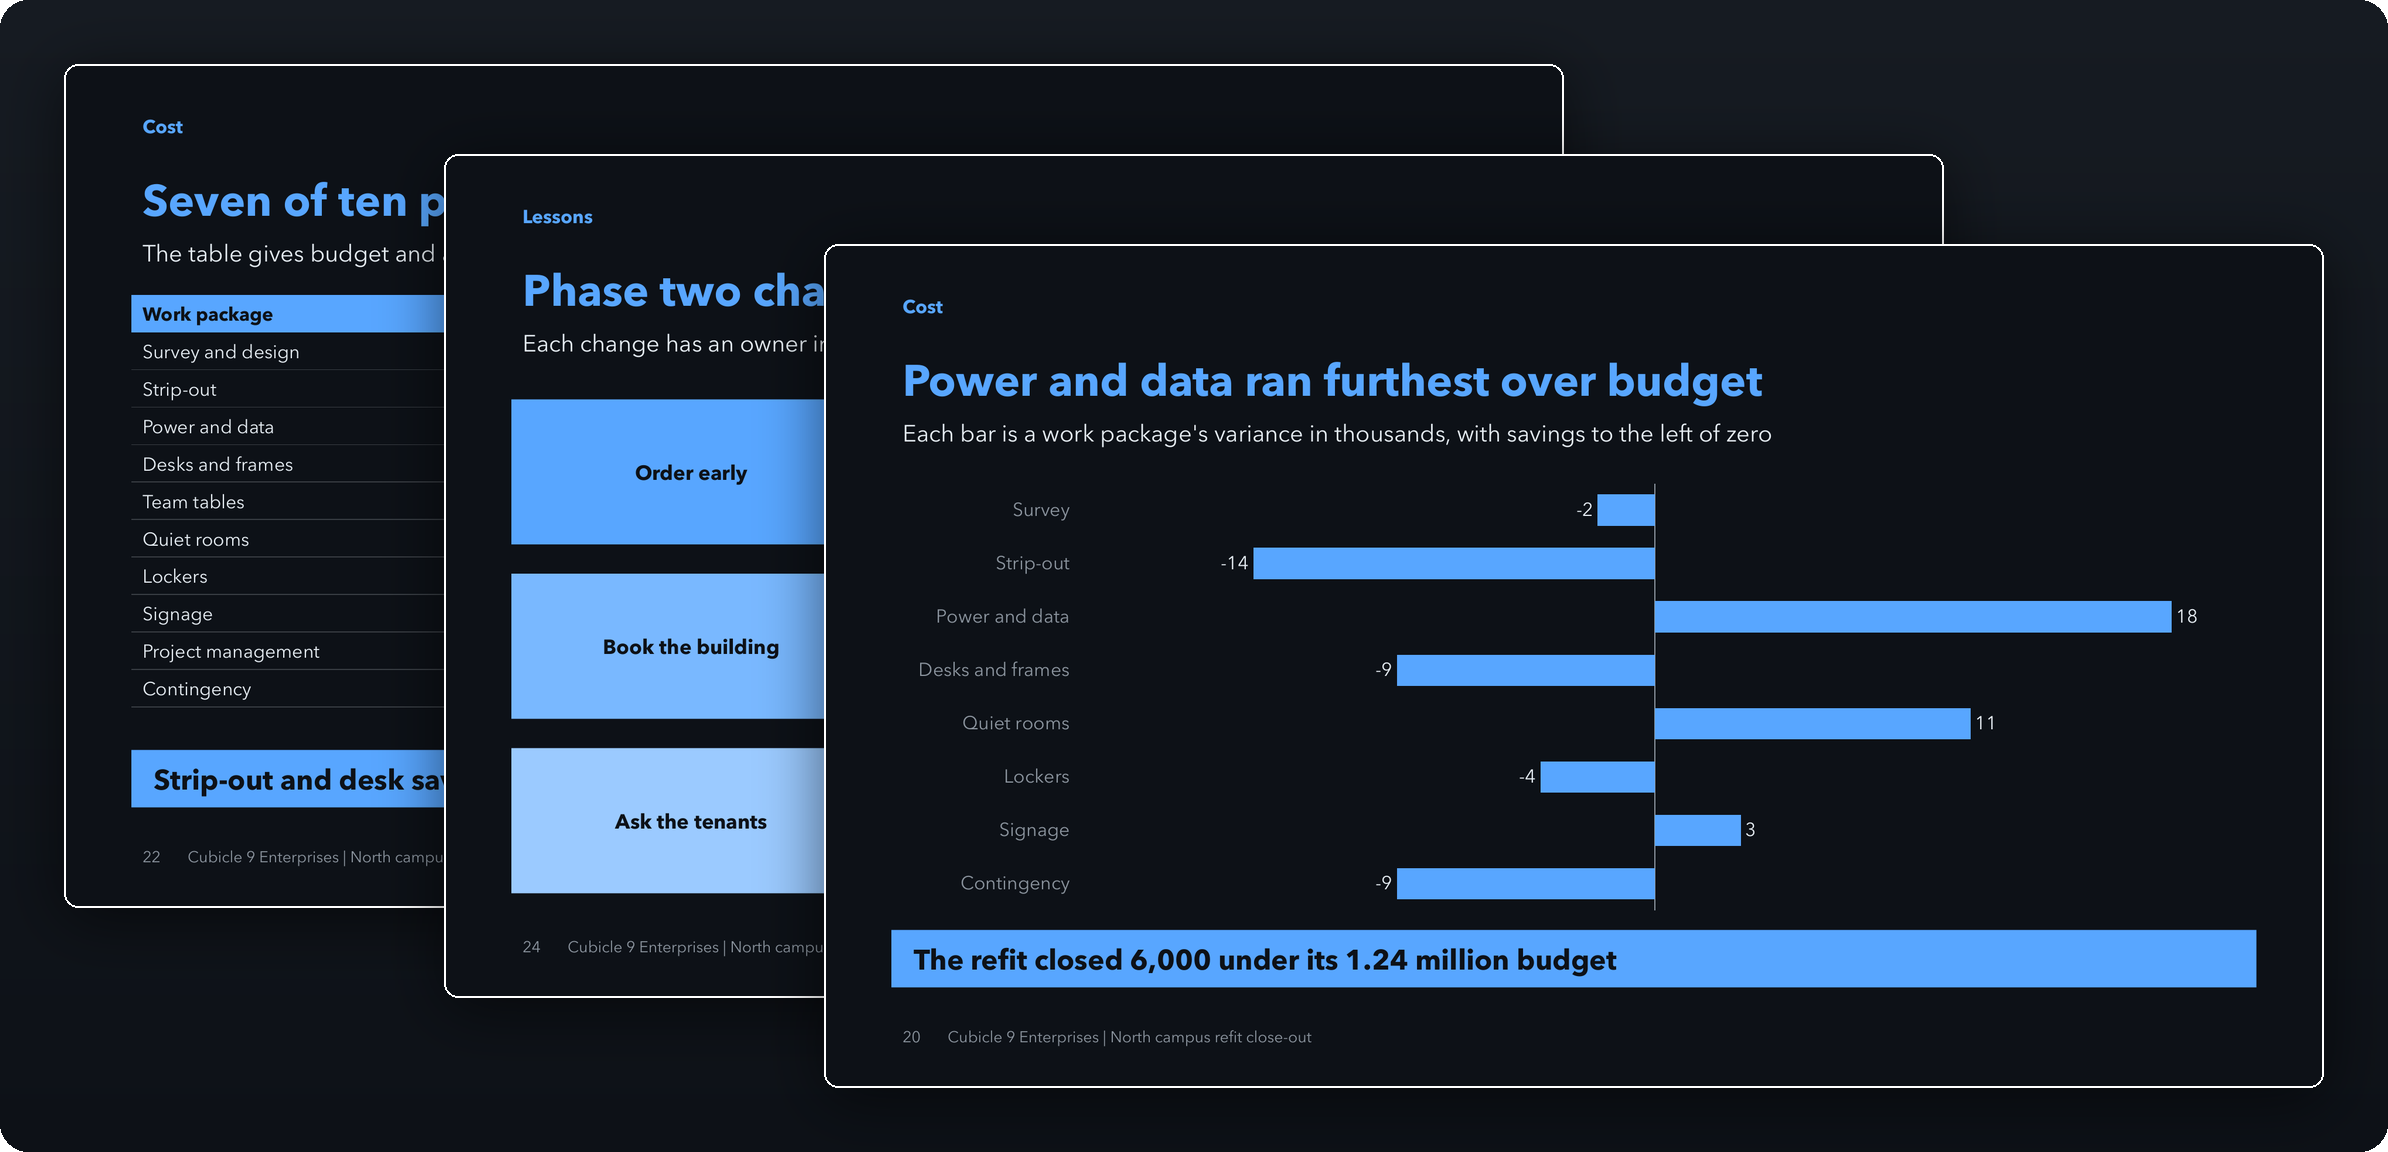
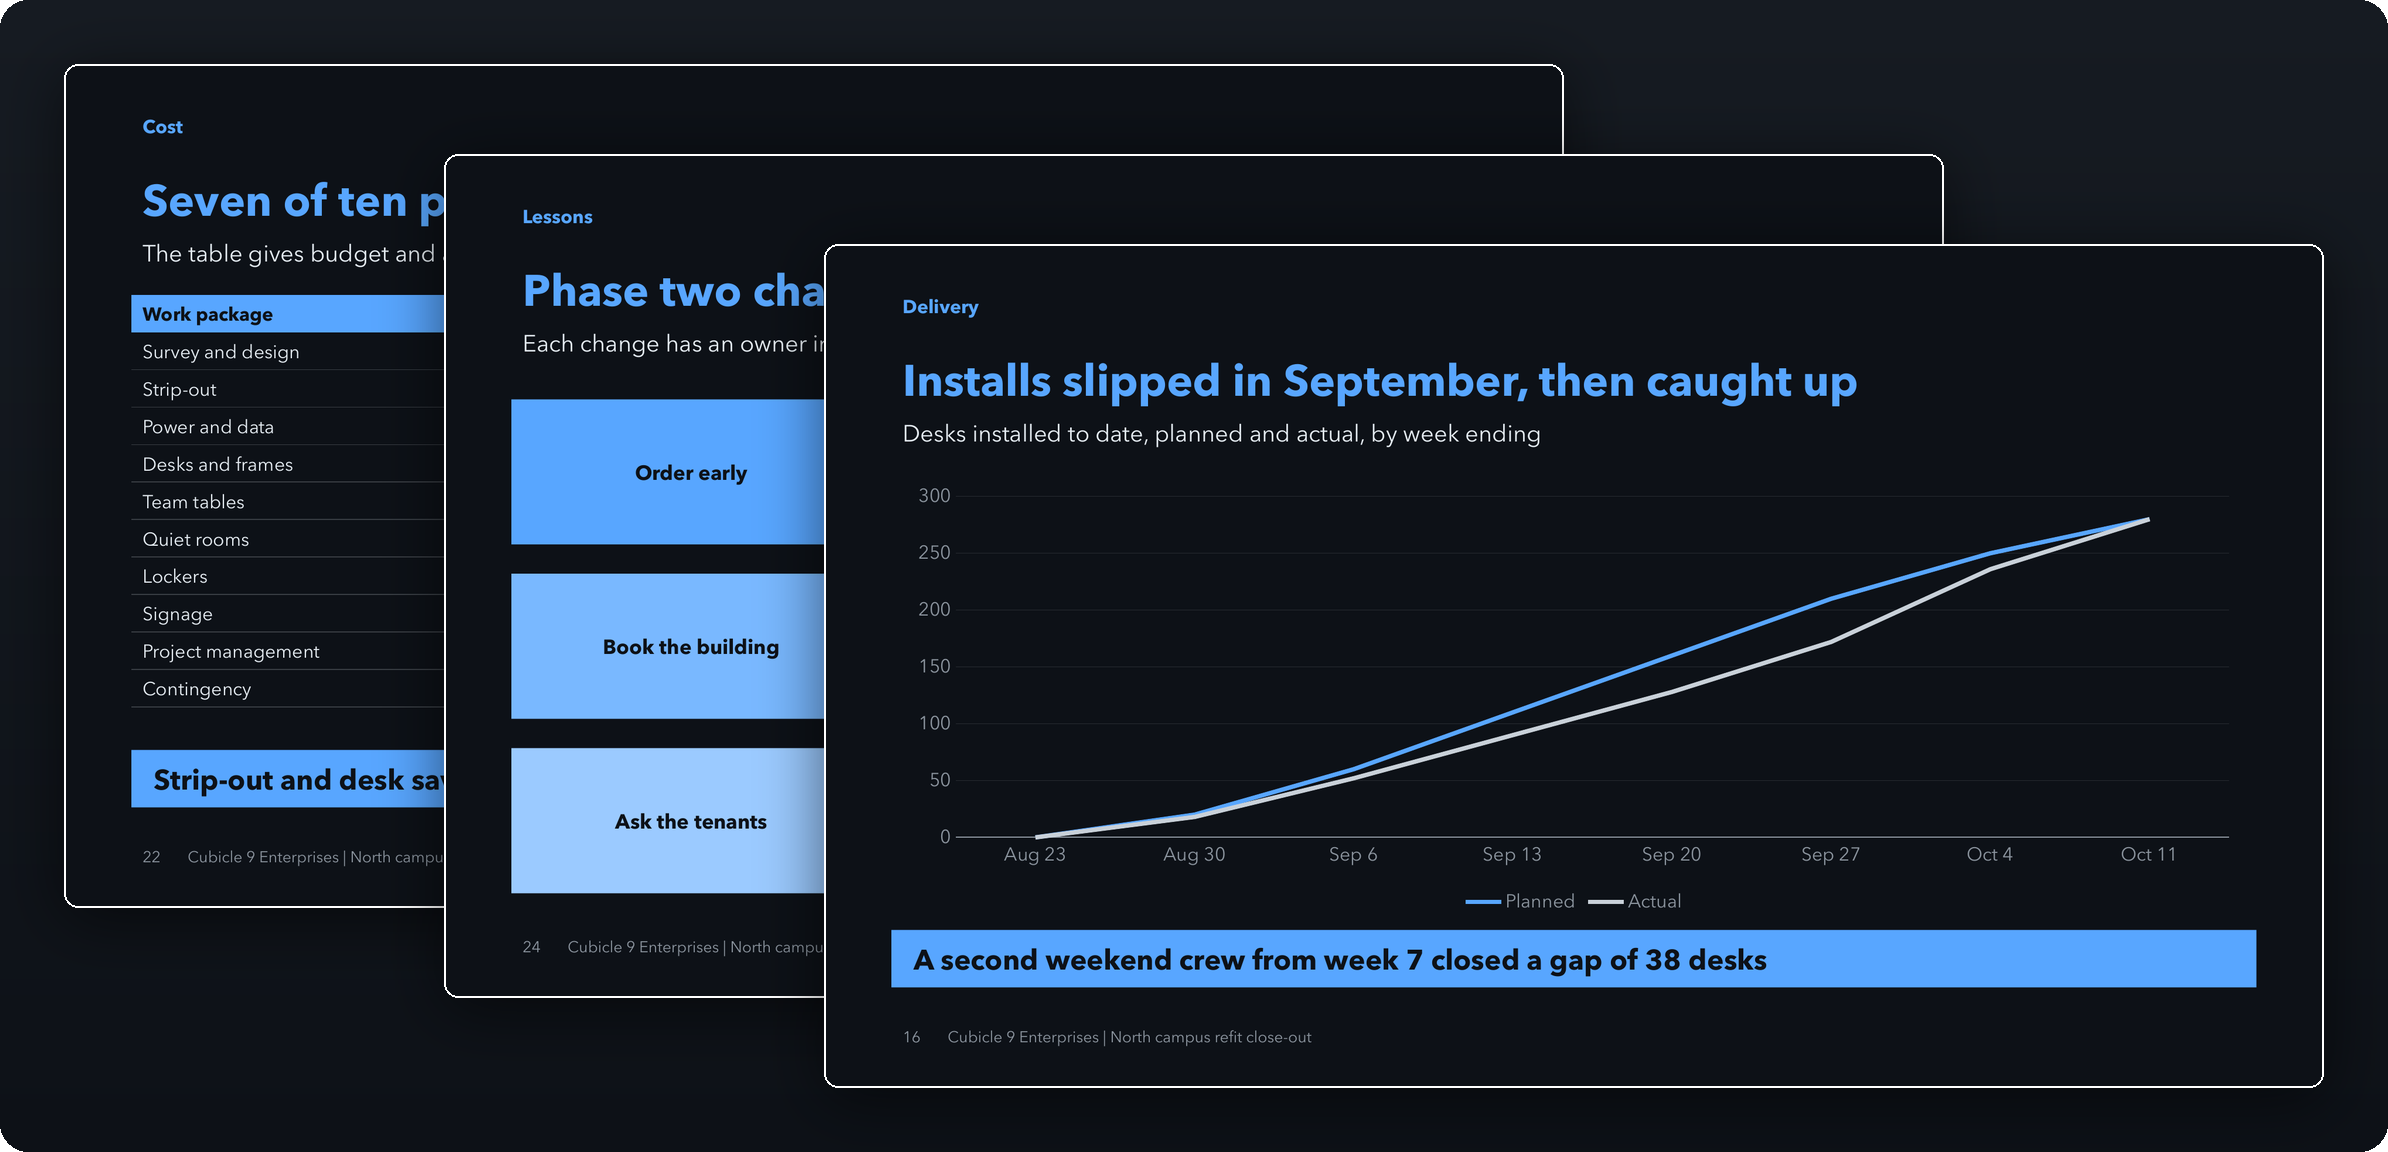
README hero: the line chart of desks installed against the plan in front, in place of the variance bar chart

diff --git a/scripts/readme_images.py b/scripts/readme_images.py
@@ -34,7 +34,7 @@ DARK = {
 }
 BRANDS = ("dark-mono", "dark-teal", "dark-blue")  # brands.png back to front, the hero's kit in front
 CHART = 4  # the showcase's chart slide
-HERO = (11, 13, 9)  # review-deck slides in the blue kit, back to front: a table, three changes, a bar chart
+HERO = (11, 13, 5)  # review-deck slides in the blue kit, back to front: a table, three changes, a line chart
 PANEL = ("161B22", "0D1117")  # the panel's gradient, top to bottom
 DPI = "192"
 RATIO = 9 / 16  # slide height over width

diff --git a/README.md b/README.md
@@ -21,7 +21,7 @@
 <br>
 
 <p align="center">
-  <img src="docs/images/hero.png" width="100%" alt="Three slides from one deck in a dark brand kit with blue accents, fanned out on a dark panel. At the back, a table of ten work packages; in the middle, three changes for phase two on blue labels; in front and whole, a bar chart of each work package's variance against budget, titled Power and data ran furthest over budget, with a takeaway band across the bottom.">
+  <img src="docs/images/hero.png" width="100%" alt="Three slides from one deck in a dark brand kit with blue accents, fanned out on a dark panel. At the back, a table of ten work packages; in the middle, three changes for phase two on blue labels; in front and whole, a line chart of desks installed against the plan, titled Installs slipped in September, then caught up, with a takeaway band across the bottom.">
 </p>
 <p align="center"><sub>Slides from one deck in a dark brand kit. The chart is a native PowerPoint chart, and every word is still editable.</sub></p>
 
